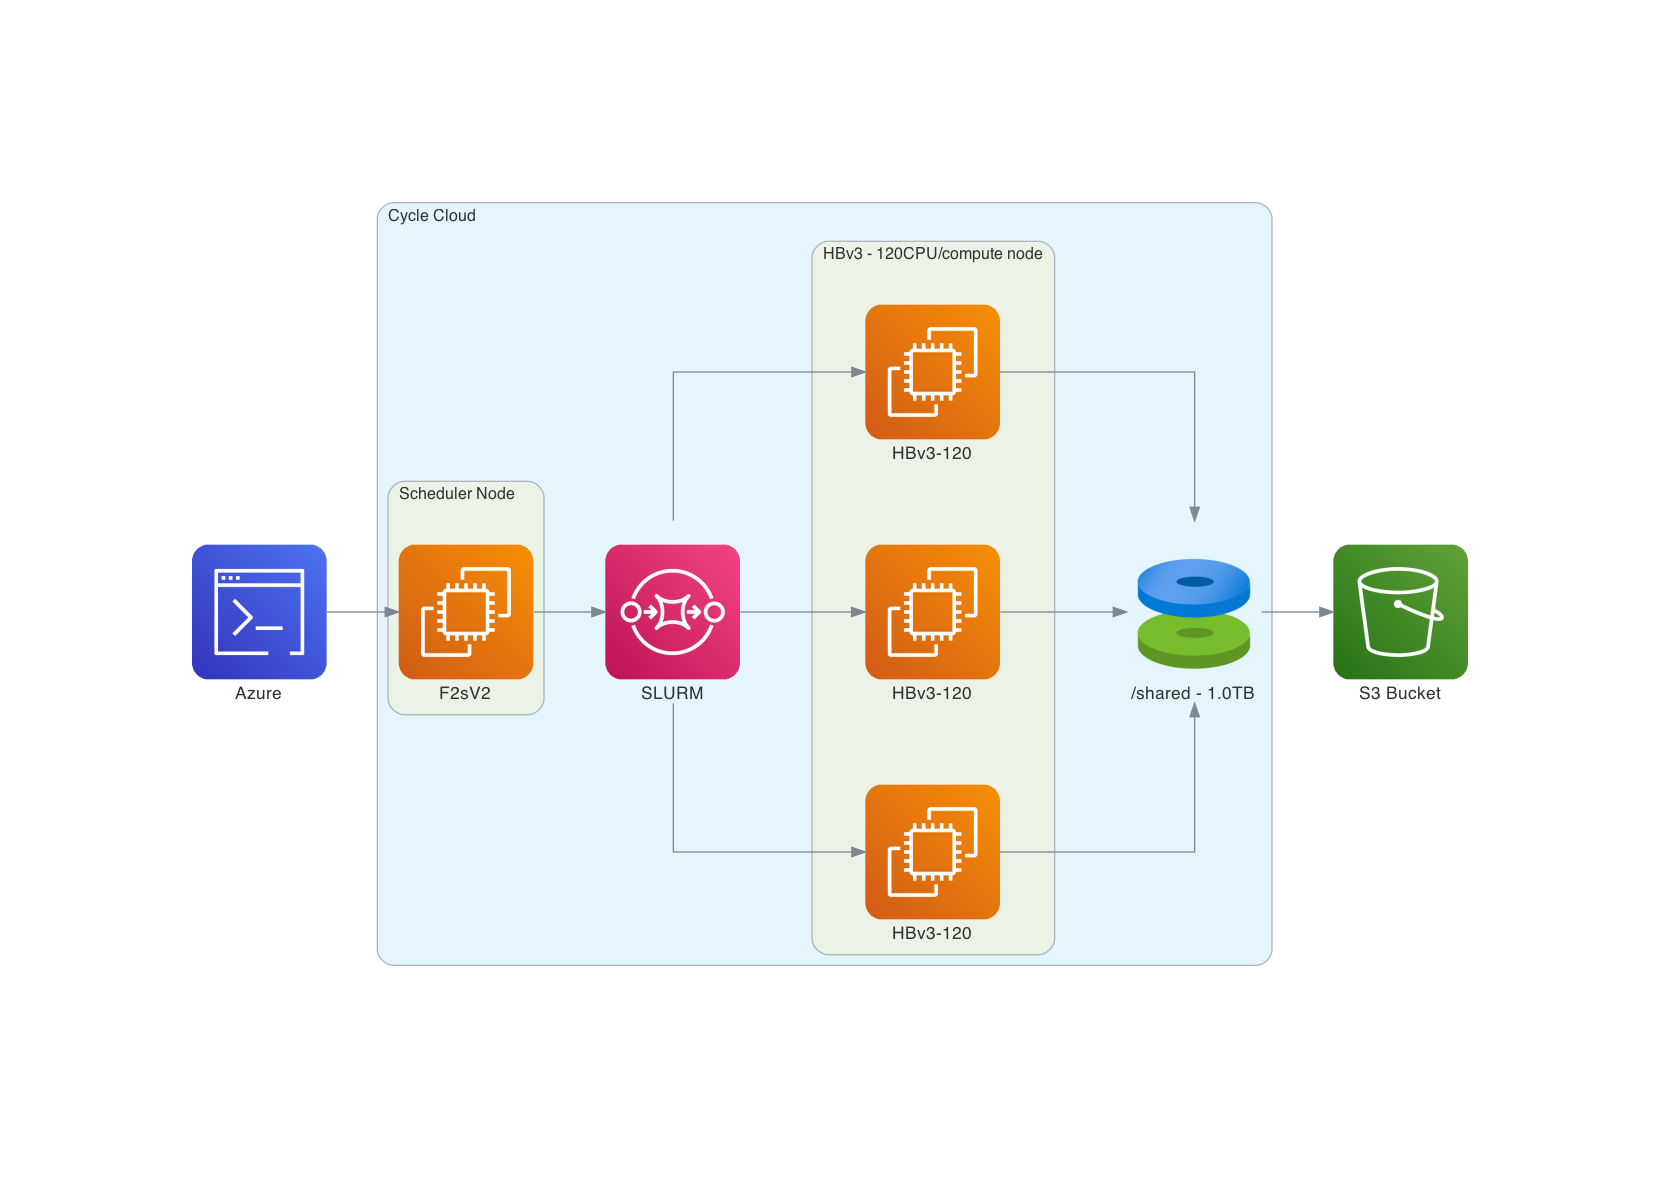
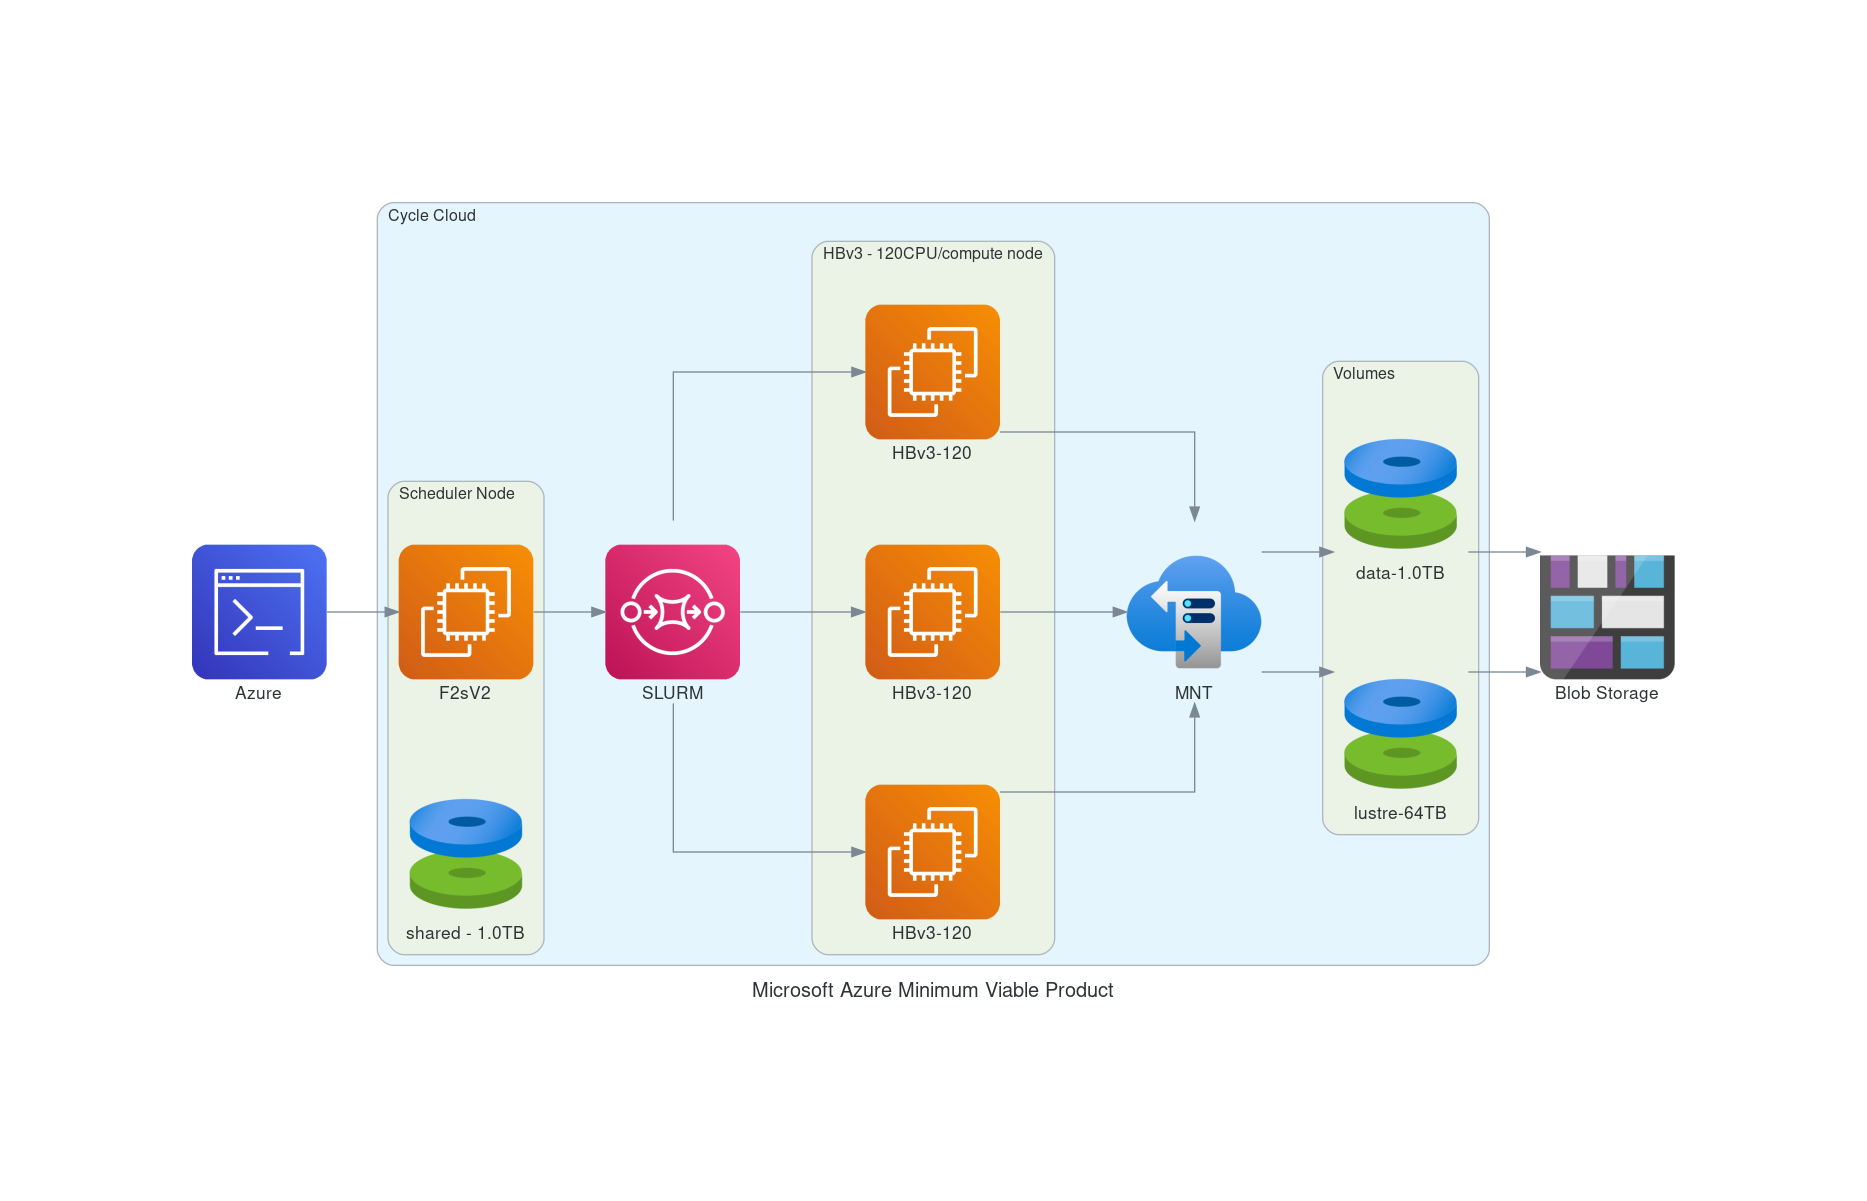
update diagram

diff --git a/docs/diagrams/nested_clusters_cyclecloud.py b/docs/diagrams/nested_clusters_cyclecloud.py
@@ -5,8 +5,10 @@ from diagrams.aws.integration import SQS
 from diagrams.aws.storage import S3, EBS, FSx
 from diagrams.aws.devtools import CLI
 from diagrams.azure.compute import Disks
+from diagrams.azure.storage import BlobStorage
+from diagrams.azure.storage import StorageSyncServices
 
-with Diagram("Microsoft Azure Minimum Viable Product", show=False):
+with Diagram("Microsoft Azure Cycle Cloud", show=False):
     source = CLI("Azure")
 
     with Cluster("Cycle Cloud"):
@@ -15,16 +17,28 @@ with Diagram("Microsoft Azure Minimum Viable Product", show=False):
         
 
         with Cluster("Scheduler Node"):
-            head = [EC2("F2sV2")]
+            head = [EC2("D4ds v5 (4 vcpus)")]
 
-        with Cluster("HBv3 - 120CPU/compute node"):
+        with Cluster("HBv3 - 120CPU/compute node; Scalable based SLURM request"):
             workers = [EC2("HBv3-120"),
                        EC2("HBv3-120"),
                         EC2("HBv3-120")]
-        volume1 = Disks("/shared - 1.0TB")
+        with Cluster("Shared"):
+             sched = [
+                     EC2("Scheduler Node"), 
+                     Disks("Shared - 1.0TB")]
+        with Cluster("Data"):
+             volume1 = [
+                     Disks("data-1.0TB")]
+        with Cluster("Lustre"):
+             volume2 = [ 
+                     Disks("lustre-64TB")]
+        mnt = StorageSyncServices("Mount Point")
 
-
-    store = S3("S3 Bucket")
+    store = BlobStorage("Blob Storage")
 
     source >> head >> queue >> workers
-    workers >> volume1 >> store
+    workers >> mnt 
+    mnt >> sched  >> store
+    mnt >> volume1 >> store
+    mnt >> volume2 >> store

diff --git a/docs/user_guide_cyclecloud/System-Req/system-requirements-cyclecloud.md b/docs/user_guide_cyclecloud/System-Req/system-requirements-cyclecloud.md
@@ -126,7 +126,7 @@ Compute Node for HPC Queue - used to run CMAQ:
 
 Figure 1. Cycle Cloud Recommended Cluster Configuration (Number of compute nodes depends on setting for NPCOLxNPROW and #SBATCH --nodes=XX #SBATCH --ntasks-per-node=YY )
 
-![Azure Minimum Viable Product Configuration](../../diagrams/microsoft_azure_minimum_viable_product.png)
+![Azure Minimum Viable Product Configuration](../../diagrams/microsoft_azure_cycle_cloud.png)
 
 #### Azure CycleCloud specifies what resource to use for disks, scheduler node, and compute nodes. 
 Cycle Cloud simply tries to schedule the job according to the slurm scheduler instructions. Slurm controls the launch, terminate, and maintain resources.
